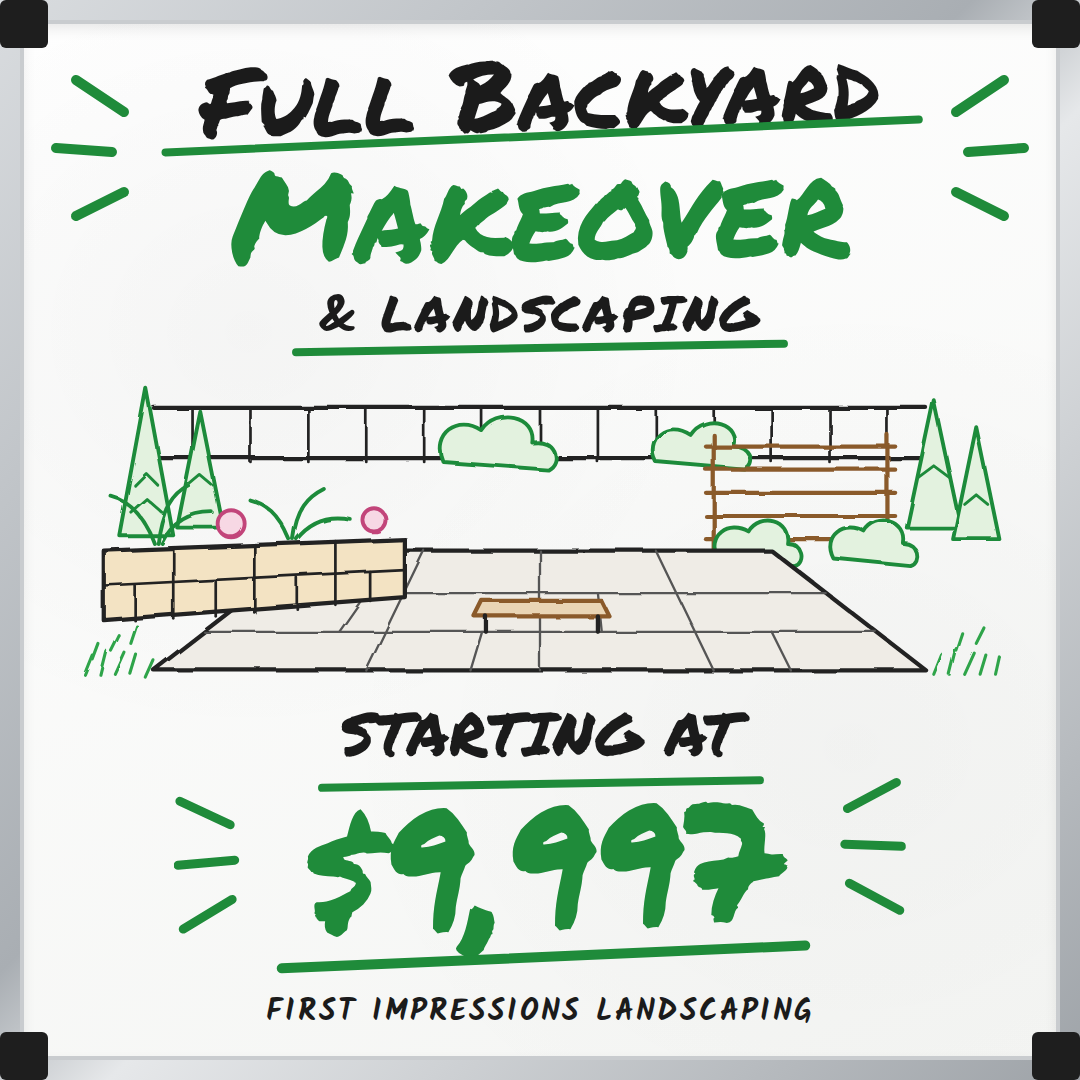
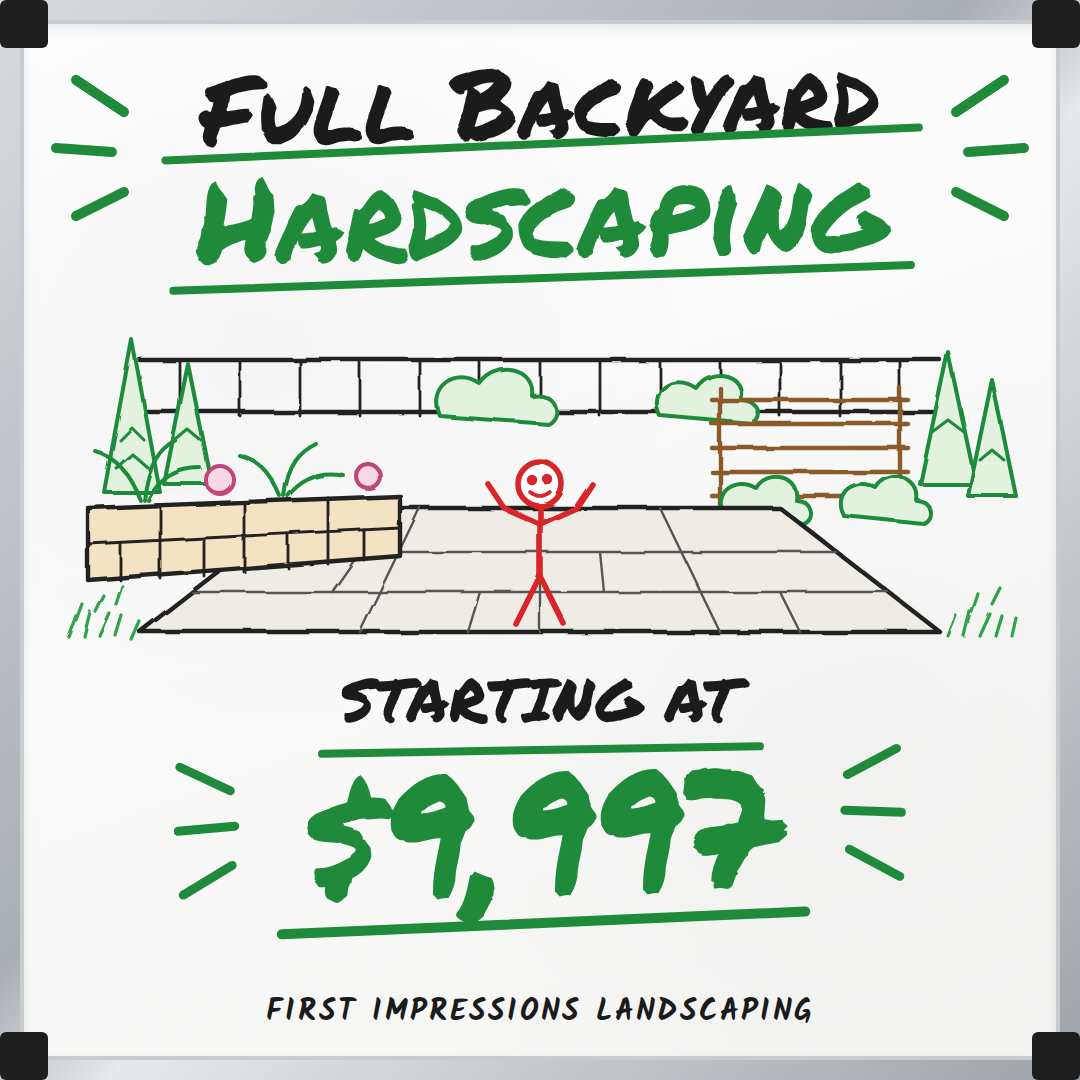
Switch Josh whiteboard ads to full backyard hardscaping; add realistic whiteboard photo ad
Claude-Session: https://claude.ai/code/session_01Kp3iAUfScQwAQYUi1SKLzt

Changed region(s): [[0.0611, 0.0306, 0.9472, 0.9167], [0.7639, 0.6722, 0.8556, 0.8556], [0.1528, 0.7028, 0.2139, 0.8861]]

diff --git a/josh-whiteboard/real-whiteboard.html b/josh-whiteboard/real-whiteboard.html
@@ -1,0 +1,169 @@
+<!doctype html>
+<html>
+<head>
+<meta charset="utf-8">
+<title>Real Whiteboard Ad</title>
+<style>
+  @font-face { font-family: 'Marker'; src: url(fonts/PermanentMarker-Regular.ttf); }
+  @font-face { font-family: 'Kalam'; font-weight: 700; src: url(fonts/Kalam-Bold.ttf); }
+  :root { --ink: #1E1E22; --red: #D9262C; }
+  * { margin: 0; padding: 0; box-sizing: border-box; }
+  body { background: #fff; }
+  .ad { position: relative; width: 540px; height: 540px; overflow: hidden; background: #D8CDB8; }
+  /* painted wall with subtle texture and warm room light */
+  .wall { position: absolute; inset: 0;
+    background:
+      radial-gradient(ellipse at 30% 25%, rgba(255,250,238,.55), transparent 60%),
+      linear-gradient(180deg, #DDD3BF, #CFC3AC); }
+  .grain { position: absolute; inset: 0; width: 100%; height: 100%; opacity: .22; mix-blend-mode: multiply; }
+  /* window on the left */
+  .window { position: absolute; left: -16px; top: 10px; width: 64px; height: 360px;
+    border: 7px solid #F4F1EA; border-left: none; box-shadow: 2px 3px 8px rgba(0,0,0,.25), inset 0 0 0 2px #CFC8BA; overflow: hidden; }
+  .window .view { position: absolute; inset: -20px; background: url(images/garden-screen-lawn.jpg) 20% 50% / cover; filter: blur(6px) brightness(1.1) saturate(.8); }
+  .window .sash { position: absolute; left: 0; right: 0; top: 48%; height: 6px; background: #F4F1EA; }
+  .sill { position: absolute; left: -16px; top: 366px; width: 80px; height: 12px; background: #EEE9DF; box-shadow: 0 3px 5px rgba(0,0,0,.2); }
+  /* papers pinned on the right */
+  .paper { position: absolute; background: #FBFAF6; box-shadow: 1px 2px 5px rgba(0,0,0,.22);
+    background-image: repeating-linear-gradient(transparent 0 9px, rgba(60,60,80,.13) 9px 10px); background-position: 0 22px; }
+  .paper::before { content: ''; position: absolute; top: 5px; left: 50%; width: 7px; height: 7px; margin-left: -3px; border-radius: 50%; background: #C33; box-shadow: 0 1px 1px rgba(0,0,0,.4); }
+  /* whiteboard */
+  .boardwrap { position: absolute; left: 44px; top: 20px; width: 444px; height: 492px;
+    transform: perspective(1400px) rotateY(-4deg) rotateZ(-.6deg); transform-origin: 50% 50%;
+    filter: drop-shadow(6px 10px 10px rgba(0,0,0,.33)); }
+  .frame { position: absolute; inset: 0; border-radius: 4px;
+    background: linear-gradient(135deg, #E9EBED, #A7ACB1 30%, #DEE1E4 50%, #9CA1A6 75%, #D2D5D8); padding: 9px; }
+  .board { position: relative; width: 100%; height: 100%; overflow: hidden; text-align: center; color: var(--ink);
+    background:
+      radial-gradient(ellipse at 18% 12%, rgba(255,255,255,.95), transparent 38%),
+      radial-gradient(ellipse at 70% 60%, rgba(120,120,110,.08), transparent 55%),
+      linear-gradient(170deg, #F7F7F4, #E9E9E4);
+    box-shadow: inset 0 0 0 1px #BFC3C6, inset 0 2px 6px rgba(0,0,0,.15); }
+  .ghost { position: absolute; inset: 0; width: 100%; height: 100%; }
+  .ink { filter: url(#marker); }
+  h1 { font-family: 'Marker', cursive; font-weight: 400; line-height: .98; padding-top: 18px; opacity: .93; }
+  h1 .l1 { display: block; font-size: 50px; transform: rotate(-2.5deg); letter-spacing: .5px; }
+  h1 .l2 { display: block; font-size: 60px; transform: rotate(-2deg); margin-top: 2px; }
+  .from { font-family: 'Kalam', cursive; font-weight: 700; font-size: 25px; letter-spacing: 2.5px; color: var(--red); margin-top: 8px; transform: rotate(-1deg); opacity: .93; }
+  .price-wrap { position: relative; display: inline-block; padding: 0 48px; margin-top: 12px; }
+  .price-wrap svg { position: absolute; inset: -4px -12px; width: calc(100% + 24px); height: calc(100% + 8px); overflow: visible; }
+  .price { font-family: 'Marker', cursive; font-size: 96px; line-height: 1.02; color: var(--red); opacity: .93; transform: rotate(-1.5deg); }
+  .offer { font-family: 'Kalam', cursive; font-weight: 700; font-size: 22px; letter-spacing: 1.5px; color: var(--red); margin-top: 10px; opacity: .93; }
+  .art { position: absolute; left: 0; right: 0; bottom: 4px; width: 100%; height: 150px; }
+  /* marker tray */
+  .tray { position: absolute; left: 6px; right: 6px; bottom: -14px; height: 18px; border-radius: 0 0 4px 4px;
+    background: linear-gradient(#C7CBCF, #8E9398 70%, #777C81); box-shadow: 0 4px 6px rgba(0,0,0,.3); }
+  .mk { position: absolute; bottom: 7px; height: 13px; width: 78px; border-radius: 3px 7px 7px 3px;
+    background: linear-gradient(#FFFFFF, #E2E2E2); box-shadow: 0 2px 3px rgba(0,0,0,.45); transform: rotate(var(--r, 0deg)); }
+  .mk::before { content: ''; position: absolute; left: -12px; top: 0; width: 14px; height: 13px; border-radius: 5px 1px 1px 5px; background: var(--c); }
+  .mk::after { content: 'EXPO'; position: absolute; left: 20px; top: 2px; width: 40px; height: 9px; border-radius: 2px; background: var(--c);
+    font: 700 6px/9px Arial, sans-serif; color: #fff; text-align: center; letter-spacing: .5px; }
+  .eraser { position: absolute; bottom: 6px; left: 30px; width: 64px; height: 16px; border-radius: 3px; background: linear-gradient(#2A2A2A, #111); box-shadow: 0 2px 3px rgba(0,0,0,.4); }
+  /* camera-photo finish */
+  .vignette { position: absolute; inset: 0; pointer-events: none;
+    background: radial-gradient(ellipse at 50% 45%, transparent 58%, rgba(40,30,15,.28) 100%); }
+  .noise { position: absolute; inset: 0; width: 100%; height: 100%; pointer-events: none; opacity: .09; mix-blend-mode: overlay; }
+</style>
+</head>
+<body>
+  <svg width="0" height="0" style="position:absolute">
+    <filter id="marker"><feTurbulence type="fractalNoise" baseFrequency="0.06" numOctaves="2" seed="11"/><feDisplacementMap in="SourceGraphic" scale="1.8"/></filter>
+    <filter id="rough"><feTurbulence type="fractalNoise" baseFrequency="0.045" numOctaves="2" seed="5"/><feDisplacementMap in="SourceGraphic" scale="2.2"/></filter>
+    <filter id="grainf"><feTurbulence type="fractalNoise" baseFrequency="0.9" numOctaves="3" seed="2"/><feColorMatrix type="saturate" values="0"/></filter>
+  </svg>
+  <div class="ad" id="ad">
+    <div class="wall"></div>
+    <svg class="grain"><rect width="100%" height="100%" filter="url(#grainf)"/></svg>
+    <div class="window"><div class="view"></div><div class="sash"></div></div>
+    <div class="sill"></div>
+    <div class="paper" style="right:-14px; top:96px; width:58px; height:150px; transform: rotate(1.5deg)"></div>
+    <div class="paper" style="right:-10px; top:300px; width:52px; height:120px; transform: rotate(-1deg)"></div>
+
+    <div class="boardwrap">
+      <div class="frame">
+        <div class="board">
+          <!-- faint ghosting from old erased marker -->
+          <svg class="ghost" viewBox="0 0 426 474" fill="none" stroke="rgba(90,90,100,.04)" stroke-width="10" stroke-linecap="round">
+            <path d="M40 210 C90 190 150 230 210 200"/><path d="M260 240 C300 220 360 250 400 230"/><path d="M70 300 C120 320 170 290 220 310"/>
+          </svg>
+          <div class="ink">
+            <h1><span class="l1">FULL BACKYARD</span><span class="l2">HARDSCAPING</span></h1>
+            <div class="from">STARTING AT</div>
+            <div class="price-wrap">
+              <svg viewBox="0 0 300 110" preserveAspectRatio="none" fill="none" stroke="#D9262C" stroke-width="3.2" stroke-linecap="round" opacity=".93">
+                <path d="M150 5 C252 3 298 30 296 57 C294 90 230 108 150 106 C68 104 4 90 4 57 C4 25 62 6 168 9"/>
+              </svg>
+              <div class="price">$9,997</div>
+            </div>
+            <div class="offer">(LIMITED TIME OFFER)</div>
+          </div>
+
+          <svg class="art" viewBox="0 0 426 150" fill="none" stroke="#222" stroke-width="2" stroke-linecap="round" stroke-linejoin="round" opacity=".93">
+            <g filter="url(#rough)">
+              <!-- shrubs behind wall -->
+              <g stroke="#2E7D32" fill="#CFE6C8" stroke-width="1.8">
+                <path d="M8 60 C2 44 16 32 28 40 C34 26 54 30 52 44 C62 40 70 52 62 60 Z"/>
+                <path d="M56 58 C52 44 66 36 76 44 C84 32 102 38 98 50 C108 50 110 60 104 62 Z"/>
+                <path d="M104 72 C100 60 112 54 120 60 C126 50 140 54 138 64 C146 64 148 72 142 74 Z"/>
+              </g>
+              <!-- tiered stone retaining wall -->
+              <path d="M4 108 V62 H104 V74 H150 V108 Z" fill="#E9DFCB"/>
+              <g stroke-width="1.3">
+                <path d="M4 76 H104"/><path d="M4 92 H150"/><path d="M104 74 V108"/>
+                <path d="M30 62 V76"/><path d="M60 62 V76"/><path d="M84 62 V76"/>
+                <path d="M18 76 V92"/><path d="M46 76 V92"/><path d="M76 76 V92"/><path d="M126 74 V92"/>
+                <path d="M32 92 V108"/><path d="M64 92 V108"/><path d="M96 92 V108"/><path d="M130 92 V108"/>
+              </g>
+              <g stroke="none"><rect x="31" y="63" width="28" height="12" fill="#C9C3B8"/><rect x="47" y="77" width="28" height="14" fill="#D9B98C"/><rect x="65" y="93" width="30" height="14" fill="#C9C3B8"/><rect x="5" y="93" width="26" height="14" fill="#D9B98C"/><rect x="105" y="75" width="20" height="16" fill="#D9B98C"/></g>
+              <!-- steps -->
+              <path d="M150 108 V96 H164 V108"/><path d="M164 108 V102 H176"/>
+              <!-- paving in perspective -->
+              <path d="M0 148 L18 108 H410 L426 148 Z" fill="#EEEBE5"/>
+              <g stroke-width="1.1" stroke="#555">
+                <path d="M10 128 H418"/><path d="M60 108 L50 148"/><path d="M110 108 L104 148"/><path d="M160 108 L158 148"/><path d="M210 108 L212 148"/><path d="M260 108 L266 148"/><path d="M310 108 L320 148"/><path d="M360 108 L374 148"/>
+                <path d="M85 128 L82 148"/><path d="M185 108 L184 128"/><path d="M285 128 L290 148"/><path d="M335 108 L340 128"/>
+              </g>
+              <!-- stick figure in a cap laying pavers -->
+              <g stroke-width="2.4">
+                <circle cx="196" cy="76" r="9" fill="#fff"/>
+                <path d="M187 73 Q196 62 205 73"/><path d="M203 72 L214 74"/>
+                <path d="M192 76 h.1"/><path d="M199 76 h.1"/><path d="M193 80 Q196 82 199 80" stroke-width="1.5"/>
+                <path d="M194 85 L182 108"/>
+                <path d="M182 108 L198 116 L196 128"/><path d="M182 108 L168 118 L176 128"/>
+                <path d="M192 92 L210 110"/><path d="M190 96 L206 116"/>
+              </g>
+              <path d="M206 110 L228 108 L230 118 L208 120 Z" fill="#B9B4AA"/>
+              <path d="M226 126 L250 124 L252 134 L228 136 Z" fill="#B9B4AA"/><path d="M246 116 L268 114 L270 124 L248 126 Z" fill="#B9B4AA"/><path d="M256 134 L280 132 L282 142 L258 144 Z" fill="#B9B4AA"/>
+              <!-- pergola with string lights -->
+              <g stroke="#7A4E25" stroke-width="2.6" fill="#D8B48A">
+                <path d="M306 116 V40"/><path d="M396 112 V36"/><path d="M330 104 V48"/><path d="M412 102 V44"/>
+                <path d="M296 40 L420 32 L424 38 L298 46 Z"/>
+              </g>
+              <g stroke="#7A4E25" stroke-width="1.5"><path d="M312 30 V48"/><path d="M332 28 V46"/><path d="M352 27 V45"/><path d="M372 26 V44"/><path d="M392 25 V43"/><path d="M410 24 V40"/></g>
+              <path d="M306 54 Q330 64 352 54 T398 52" stroke-width="1.2"/>
+              <g stroke="#B8860B" fill="#FFD54A" stroke-width="1"><circle cx="316" cy="59" r="2.6"/><circle cx="330" cy="62" r="2.6"/><circle cx="344" cy="59" r="2.6"/><circle cx="360" cy="56" r="2.6"/><circle cx="376" cy="58" r="2.6"/><circle cx="390" cy="55" r="2.6"/></g>
+              <!-- table and chairs -->
+              <path d="M338 92 H384" stroke-width="2.4"/><path d="M344 92 V112"/><path d="M378 92 V112"/>
+              <path d="M326 84 V112"/><path d="M326 98 H336 V112"/>
+              <path d="M396 84 V112"/><path d="M396 98 H386 V112"/>
+              <!-- potted plant -->
+              <path d="M406 120 H422 L419 138 H409 Z" fill="#D9D3C8"/>
+              <g stroke="#2E7D32" stroke-width="1.8"><path d="M414 120 C410 110 404 106 398 104"/><path d="M414 120 C416 108 420 102 424 98"/><path d="M414 120 C414 110 412 104 412 98"/></g>
+              <!-- shrubs right -->
+              <g stroke="#2E7D32" fill="#CFE6C8" stroke-width="1.8"><path d="M270 56 C266 44 278 36 288 42 C294 32 310 36 308 48 C316 48 318 56 312 58 Z"/></g>
+            </g>
+          </svg>
+        </div>
+        <div class="tray">
+          <span class="eraser"></span>
+          <span class="mk" style="--c:#1C1C1C; left:120px; --r:-2deg"></span>
+          <span class="mk" style="--c:#C8202A; left:250px; --r:1deg"></span>
+          <span class="mk" style="--c:#1E7B34; left:340px; --r:-1deg"></span>
+        </div>
+      </div>
+    </div>
+
+    <div class="vignette"></div>
+    <svg class="noise"><rect width="100%" height="100%" filter="url(#grainf)"/></svg>
+  </div>
+</body>
+</html>

diff --git a/josh-whiteboard/sketch-green.html b/josh-whiteboard/sketch-green.html
@@ -24,10 +24,10 @@
   }
   h1 { font-family: 'Marker', cursive; font-weight: 400; line-height: .92; padding-top: 14px; }
   h1 .l1 { display: block; font-size: 48px; transform: rotate(-1.5deg); }
-  h1 .l2 { display: block; font-size: 64px; color: var(--green); margin-top: 8px; transform: rotate(-1deg); }
+  h1 .l2 { display: inline-block; font-size: 58px; color: var(--green); margin-top: 8px; transform: rotate(-1deg); }
   h1 .l3 { display: block; font-size: 25px; margin-top: 4px; letter-spacing: 1px; }
   svg.strokes { position: absolute; inset: 0; width: 100%; height: 100%; pointer-events: none; }
-  .art { display: block; width: 480px; height: 166px; margin: 4px auto 0; }
+  .art { display: block; width: 480px; height: 176px; margin: 14px auto 0; }
   .from { font-family: 'Marker', cursive; font-size: 30px; margin-top: 4px; }
   .price { font-family: 'Marker', cursive; font-size: 84px; line-height: 1; color: var(--green); transform: rotate(-1.5deg); }
   .amp { font-family: 'Kalam', cursive; font-weight: 700; }
@@ -38,6 +38,7 @@
   .price .pin::after { bottom: -8px; height: 5px; }
   .dash { position: absolute; top: 50%; width: 36px; height: 80px; margin-top: -44px; }
   .dash.l { left: -64px; } .dash.r { right: -64px; transform: scaleX(-1); }
+  .u2 { position: relative; } .u2::after { content: ''; position: absolute; left: -4%; right: -4%; bottom: -8px; height: 4px; border-radius: 3px; background: var(--green); transform: rotate(-1deg); }
   .brand {
     position: absolute; left: 0; right: 0; bottom: 12px;
     font-family: 'Kalam', cursive; font-weight: 700; font-size: 15px; letter-spacing: 1.5px;
@@ -54,7 +55,7 @@
         </g>
               </svg>
 
-      <h1><span class="l1 u">Full Backyard</span><span class="l2">Makeover</span><span class="l3 u"><span class="amp">&amp;</span> LANDSCAPING</span></h1>
+      <h1 style="padding-top:18px"><span class="l1 u">Full Backyard</span><span class="l2 u2">Hardscaping</span></h1>
 
       <svg class="art" viewBox="0 0 480 172" fill="none" stroke="#222" stroke-width="2.2" stroke-linecap="round" stroke-linejoin="round">
         <defs>
@@ -96,8 +97,15 @@
             <path d="M110 98 C104 84 98 80 90 78"/><path d="M112 98 C114 82 120 76 128 72"/><path d="M114 98 C122 88 132 86 142 88"/>
             <circle cx="80" cy="90" r="7" fill="#F7D8E4" stroke="#C2457A"/><circle cx="154" cy="88" r="6" fill="#F7D8E4" stroke="#C2457A"/>
           </g>
-          <!-- outdoor bench on paving -->
-          <path d="M210 130 H272 L276 138 H206 Z" fill="#E9D5B5" stroke="#8A5A2B"/><path d="M212 138 V146"/><path d="M270 138 V146"/>
+          <!-- red stick figure, arms out -->
+          <g stroke="#D7262B" stroke-width="2.8">
+            <circle cx="240" cy="92" r="11" fill="#fff"/>
+            <circle cx="236" cy="90" r="1.2" fill="#D7262B"/><circle cx="244" cy="90" r="1.2" fill="#D7262B"/>
+            <path d="M235 96 Q240 100 245 96" stroke-width="1.8"/>
+            <path d="M240 103 V138"/>
+            <path d="M240 112 L222 104 L214 92"/><path d="M240 112 L258 104 L266 92"/>
+            <path d="M240 138 L228 162"/><path d="M240 138 L252 162"/>
+          </g>
           <!-- lawn front left/right -->
           <g stroke="#2FA44A" stroke-width="1.6">
             <path d="M4 168 l4 -10"/><path d="M12 168 l3 -12"/><path d="M20 168 l5 -11"/><path d="M28 168 l3 -10"/><path d="M36 170 l4 -9"/><path d="M8 160 l3 -8"/><path d="M18 156 l4 -8"/><path d="M28 152 l3 -9"/>
